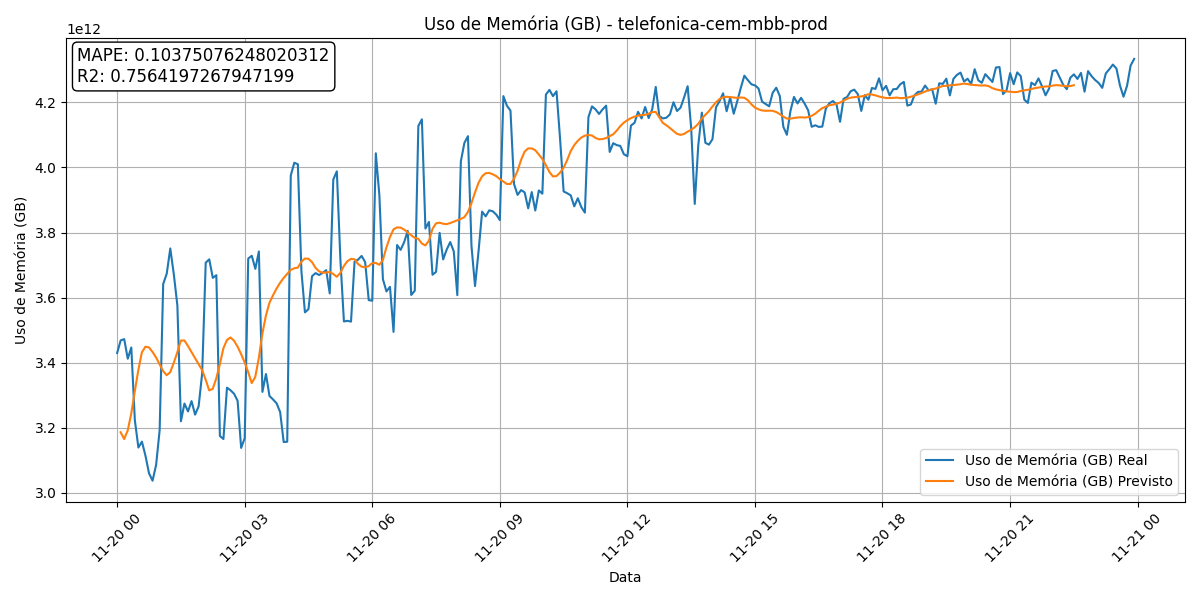
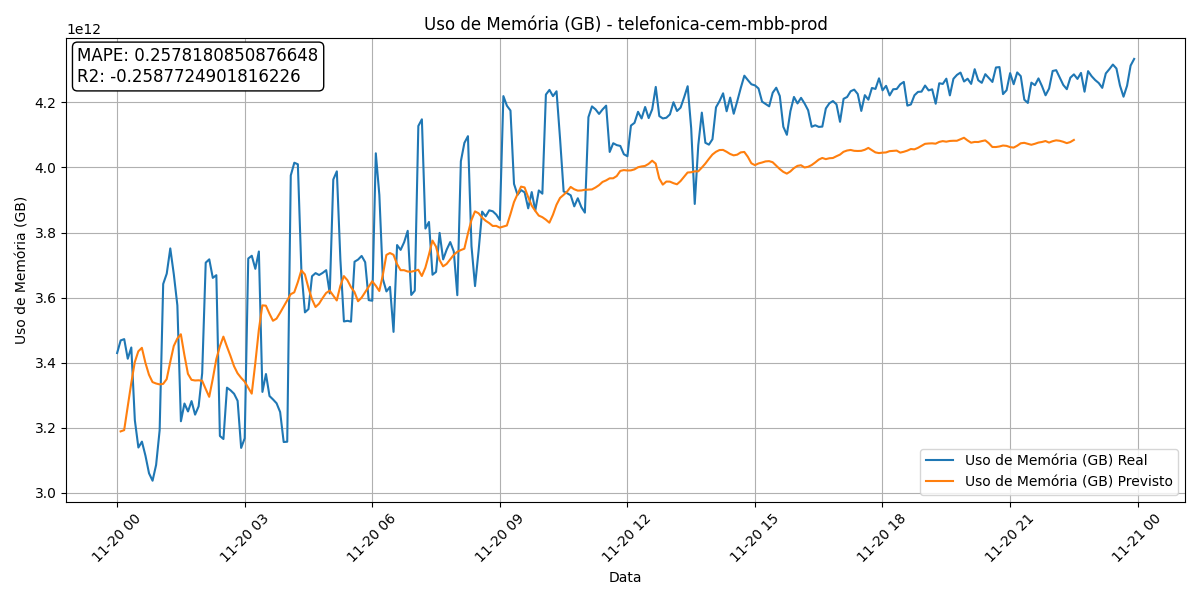
Algumas refatorações - parte I

diff --git a/models/simple_nn_model.py b/models/simple_nn_model.py
@@ -6,7 +6,7 @@ from tensorflow.keras import layers, metrics
 import pandas as pd
 import numpy as np
 
-from sklearn.metrics import mean_absolute_percentage_error, r2_score
+from sklearn.metrics import mean_absolute_error, r2_score
 from sklearn.preprocessing import StandardScaler
 
 class SimpleNNModel(BaseModel):
@@ -33,7 +33,7 @@ class SimpleNNModel(BaseModel):
     def split(self):
         n = self.X.shape[0]
         train_end = int(n * 0.7)
-        val_end   = int(n * 0.75)
+        val_end   = int(n * 0.9)
 
         X_train_raw, y_train_raw = self.X[:train_end], self.y[:train_end]
         X_val_raw,   y_val_raw   = self.X[train_end:val_end], self.y[train_end:val_end]
@@ -82,17 +82,17 @@ class SimpleNNModel(BaseModel):
             layers.LSTM(128, return_sequences=True),
             layers.LSTM(64),
             layers.Dropout(0.2),
-            layers.Dense(self.forecast_horizon * n_features),  # todas as features x horizontes
-            layers.Reshape((self.forecast_horizon, n_features))
+            layers.Dense(self.forecast_horizon), 
         ])
 
-        self.model.compile(optimizer='adam', loss='mean_squared_error', metrics=[metrics.MeanAbsoluteError()])
+        self.model.compile(optimizer='adam', loss='mean_squared_error', 
+                           metrics=[metrics.MeanAbsoluteError(), metrics.R2Score()])
 
         self.history = self.model.fit(
             self.X_train,
             self.y_train,
             epochs=5,
-            # validation_data=(self.X_val, self.y_val),
+            validation_data=(self.X_val, self.y_val),
         )
 
         self.y_pred = self.model.predict(self.X_test)
@@ -101,7 +101,7 @@ class SimpleNNModel(BaseModel):
         y_test_first_step = self.y_test[:, 0]
 
         self.metrics = {
-            "MAPE": mean_absolute_percentage_error(y_test_first_step, pred_first_step),
+            "MAPE": mean_absolute_error(y_test_first_step, pred_first_step),
             "R2": r2_score(y_test_first_step, pred_first_step)
         }
 
